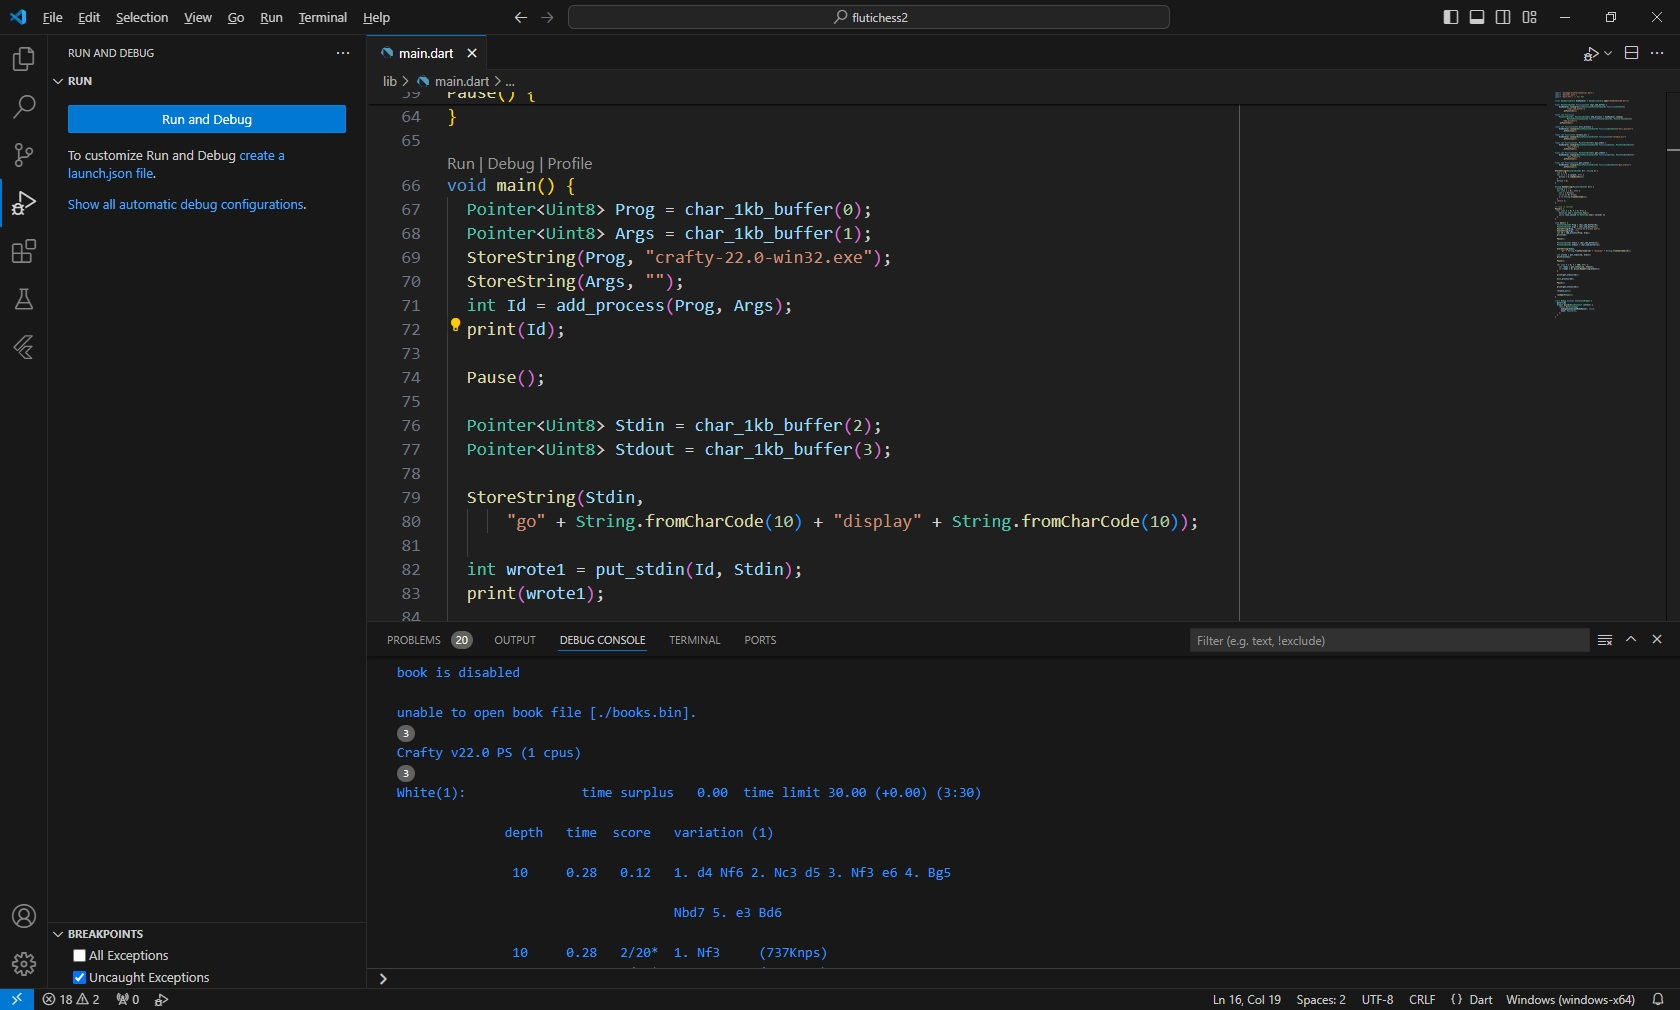
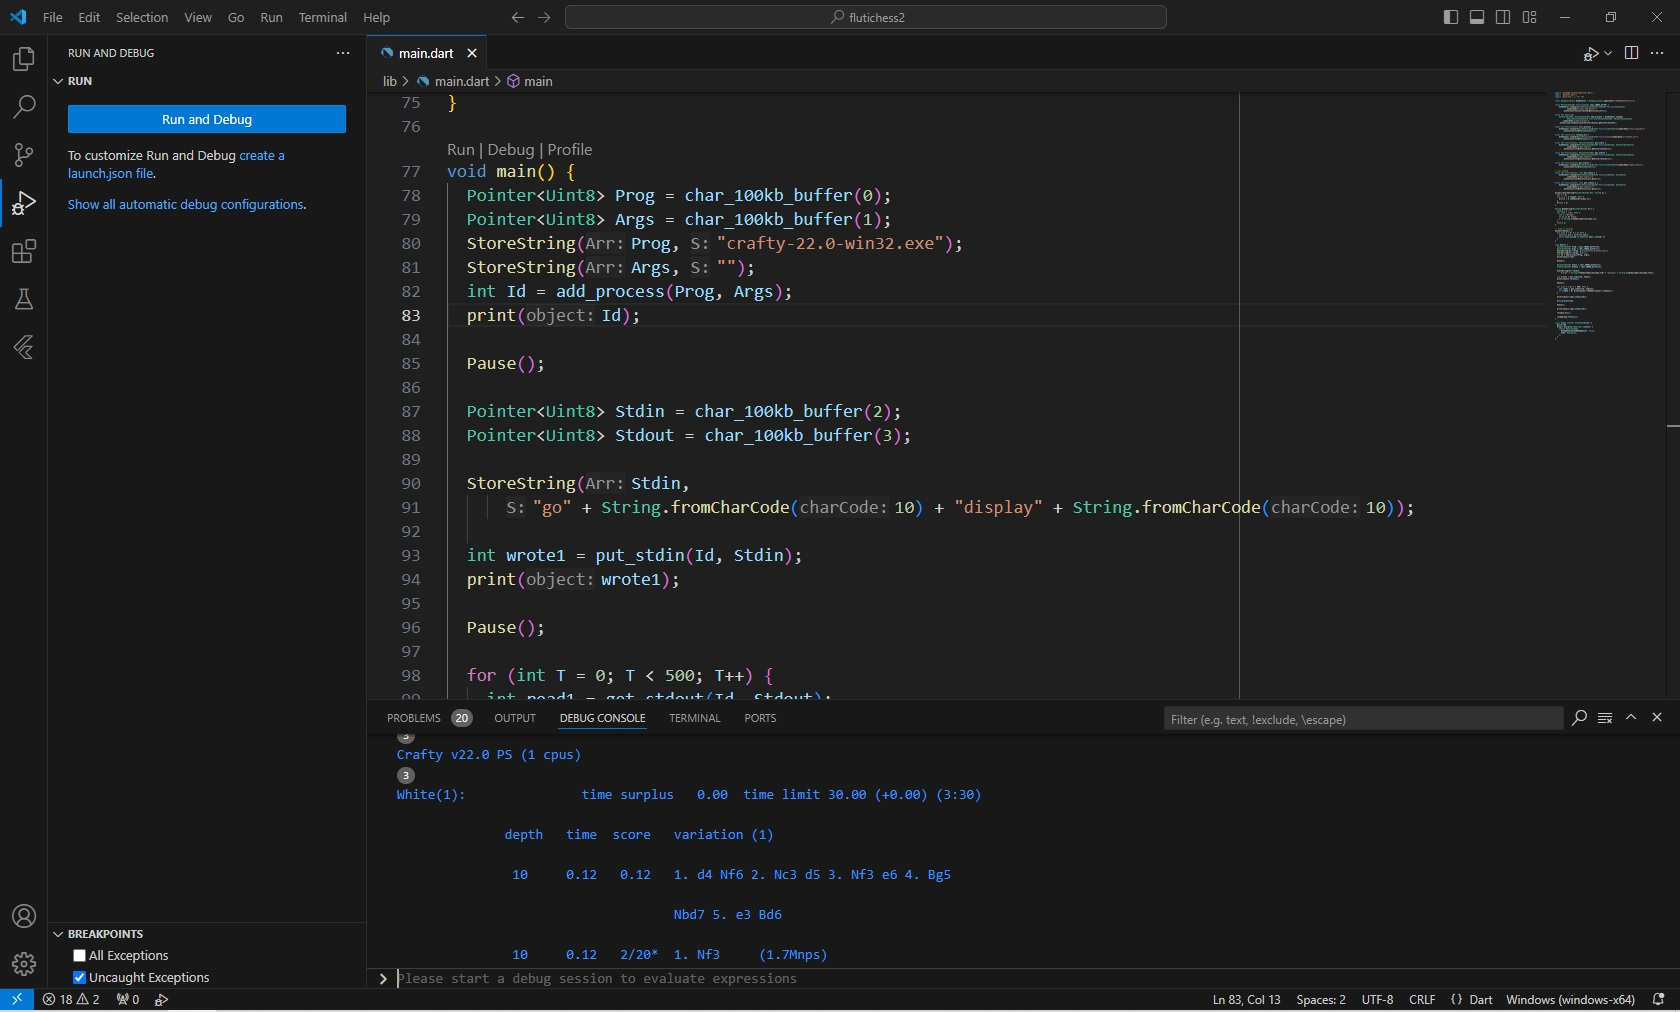
ExeHandler64 upd.

diff --git a/DLL_for_handling_exe_processes/ExeHandler64/exehandler.cpp b/DLL_for_handling_exe_processes/ExeHandler64/exehandler.cpp
@@ -14,7 +14,7 @@
 wchar_t wtxt1[1024];
 wchar_t wtxt2[1024];
 
-uint8_t CharBuffers[10240];
+uint8_t CharBuffers[10 * 102400];
 
 
 const int TB_size = 20;		// max.processes
@@ -37,10 +37,11 @@ size_t outSize, size;
 
 
 // returns pointer to the string buffer
-extern "C" __declspec(dllexport) uint8_t *  char_1kb_buffer(int i)
+extern "C" __declspec(dllexport) uint8_t *  char_100kb_buffer(int i)
 {
-    return &CharBuffers[i << 10];
+    return &CharBuffers[i * 102400];
 }
+
 
 void printf2(LPCWSTR s)
 {
@@ -417,8 +418,8 @@ extern "C" int __declspec(dllexport) release_all()
     return n;
 };
 
-extern "C" int __declspec(dllexport) put_stdin(int id, char* b)
-{
+
+int put_stdin_route(int id, char* b) {
     int l = -1;
     for (i = 0;i < tb_cnt;i++)
         if ((ID[i] == id) && IsRunning() && (IN_Wr[i] != NULL))
@@ -431,9 +432,20 @@ extern "C" int __declspec(dllexport) put_stdin(int id, char* b)
             break;
         }
     return l;
-};
+}
 
-extern "C" int __declspec(dllexport) get_stdout(int id, char* b)
+extern "C" int __declspec(dllexport) put_stdin_i(int id, int Iat)
+{
+    uint8_t*b = &CharBuffers[Iat*102400];
+    return put_stdin_route(id, (char*)b);
+}
+
+extern "C" int __declspec(dllexport) put_stdin(int id, char* b)
+{
+    return put_stdin_route(id, b);
+}
+
+int get_stdout_route(int id, char* b)
 {
     int l = -1;
     for (i = 0;i < tb_cnt;i++)
@@ -457,6 +469,18 @@ extern "C" int __declspec(dllexport) get_stdout(int id, char* b)
         }
     return l;
 };
+
+
+extern "C" int __declspec(dllexport) get_stdout_i(int id, int Iat)
+{
+    uint8_t* b = &CharBuffers[Iat * 102400];
+    return get_stdout_route(id, (char*)b);
+}
+
+extern "C" int __declspec(dllexport) get_stdout(int id, char* b)
+{
+    return get_stdout_route(id, b);
+}
 
 extern "C" int __declspec(dllexport) get_status(int id)
 {

diff --git a/DLL_for_handling_exe_processes/ExeHandler64/exehandler.py b/DLL_for_handling_exe_processes/ExeHandler64/exehandler.py
@@ -33,10 +33,16 @@ eh_dll.kill_process.restype = ctypes.c_int
 eh_dll.release_all.argtypes = [ ctypes.c_int ]
 eh_dll.release_all.restype = ctypes.c_int
 
-#not needed, can use python memory directly
-eh_dll.char_1kb_buffer.argtypes = [ ctypes.c_int ]
-eh_dll.char_1kb_buffer.restype = ctypes.c_char_p
+#not needed, can use python memory directly from memory variables
+#intended if memory should be accessed in DLL inside
+eh_dll.char_100kb_buffer.argtypes = [ ctypes.c_int ]
+eh_dll.char_100kb_buffer.restype = ctypes.c_char_p
 
+eh_dll.put_stdin_i.argtypes = [ ctypes.c_int,  ctypes.c_int ]
+eh_dll.put_stdin_i.restype = ctypes.c_int
+
+eh_dll.get_stdout_i.argtypes = [ ctypes.c_int,  ctypes.c_int ]
+eh_dll.get_stdout_i.restype = ctypes.c_int
 
 # usage samples
 #-----------------------------------
